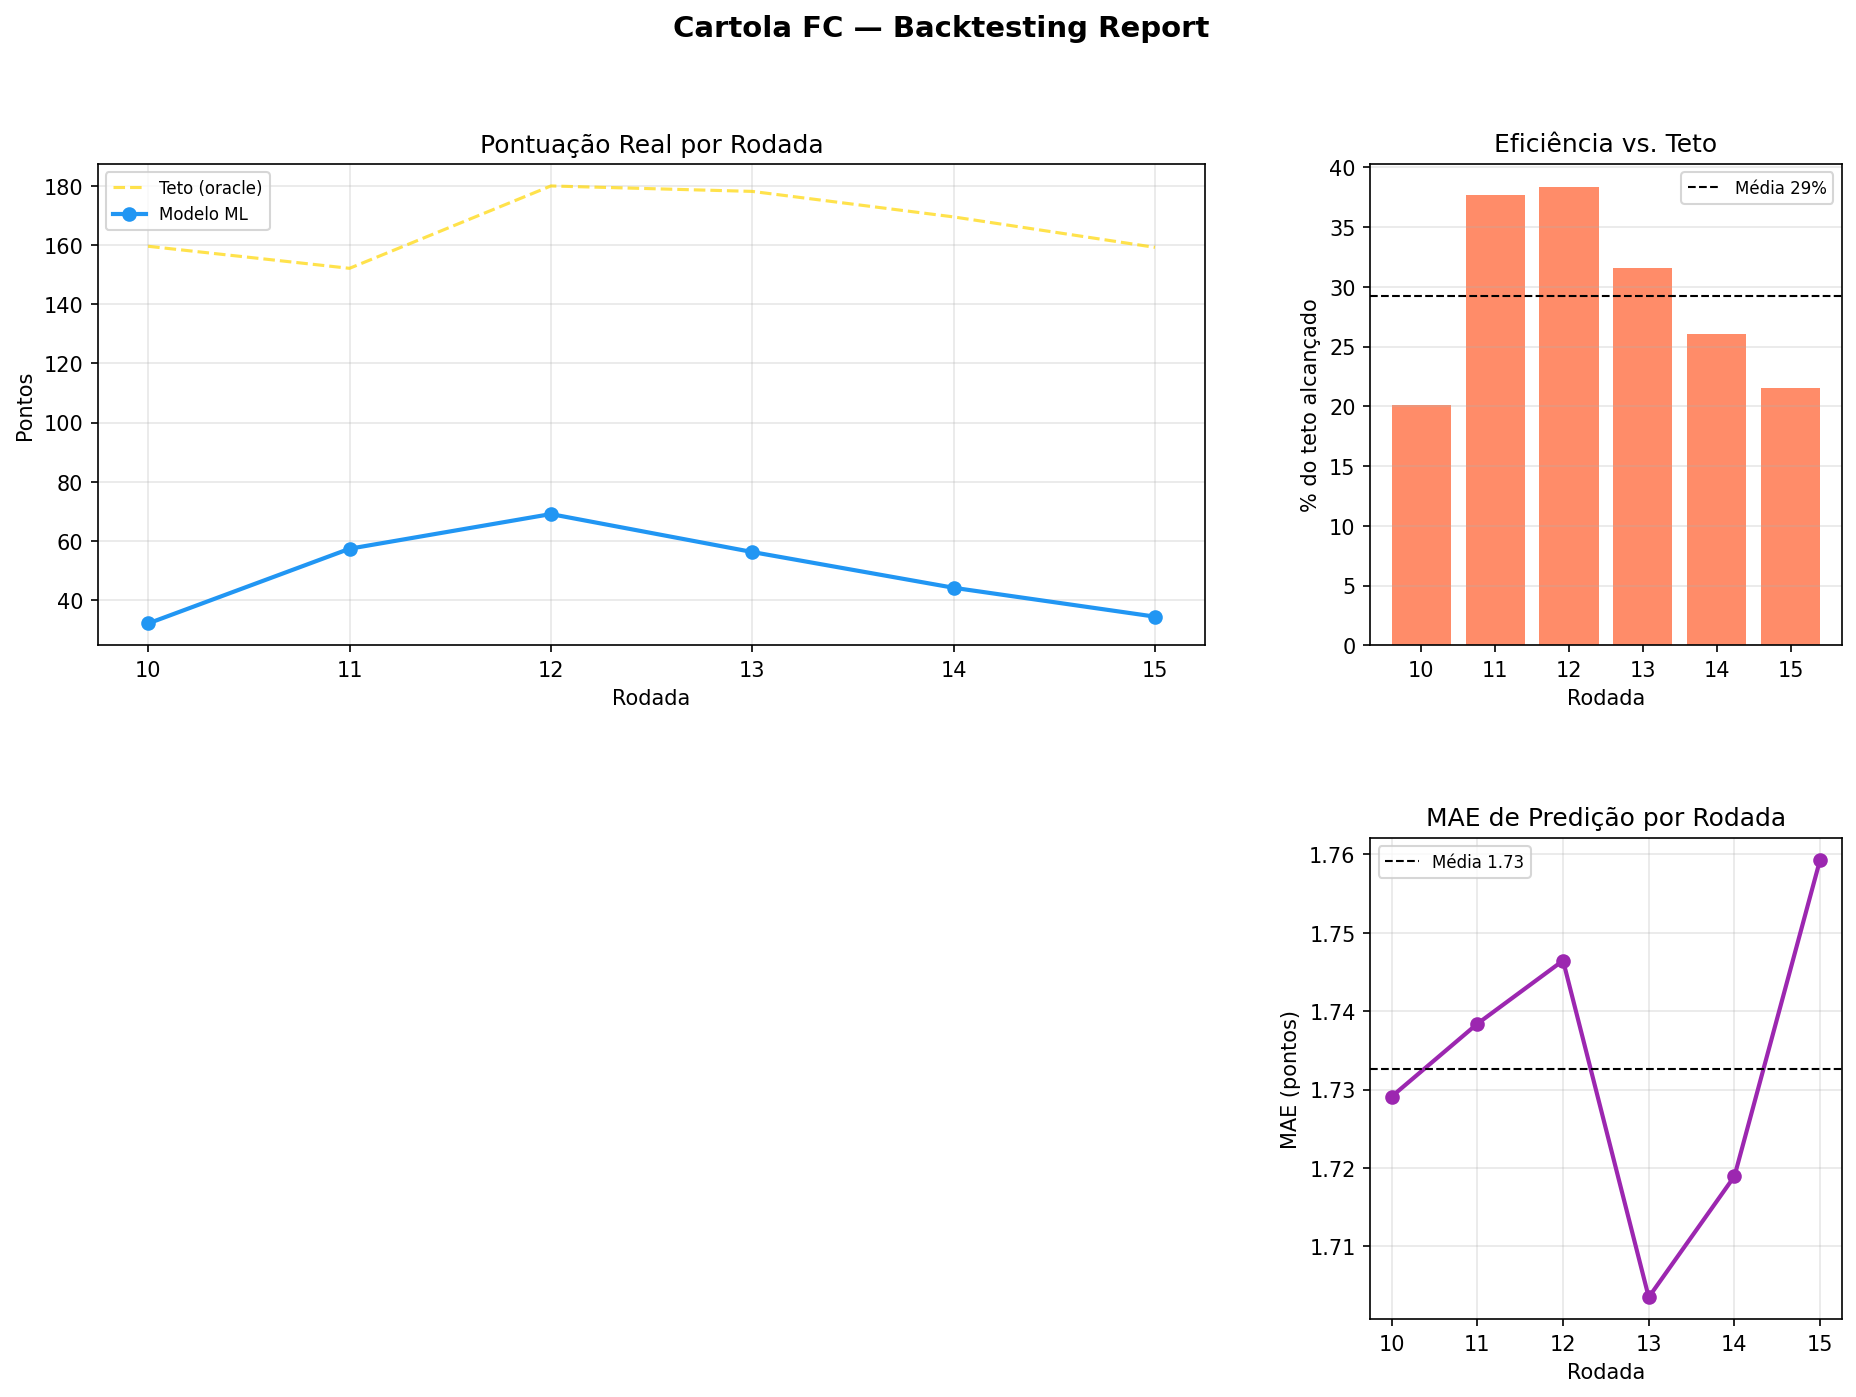
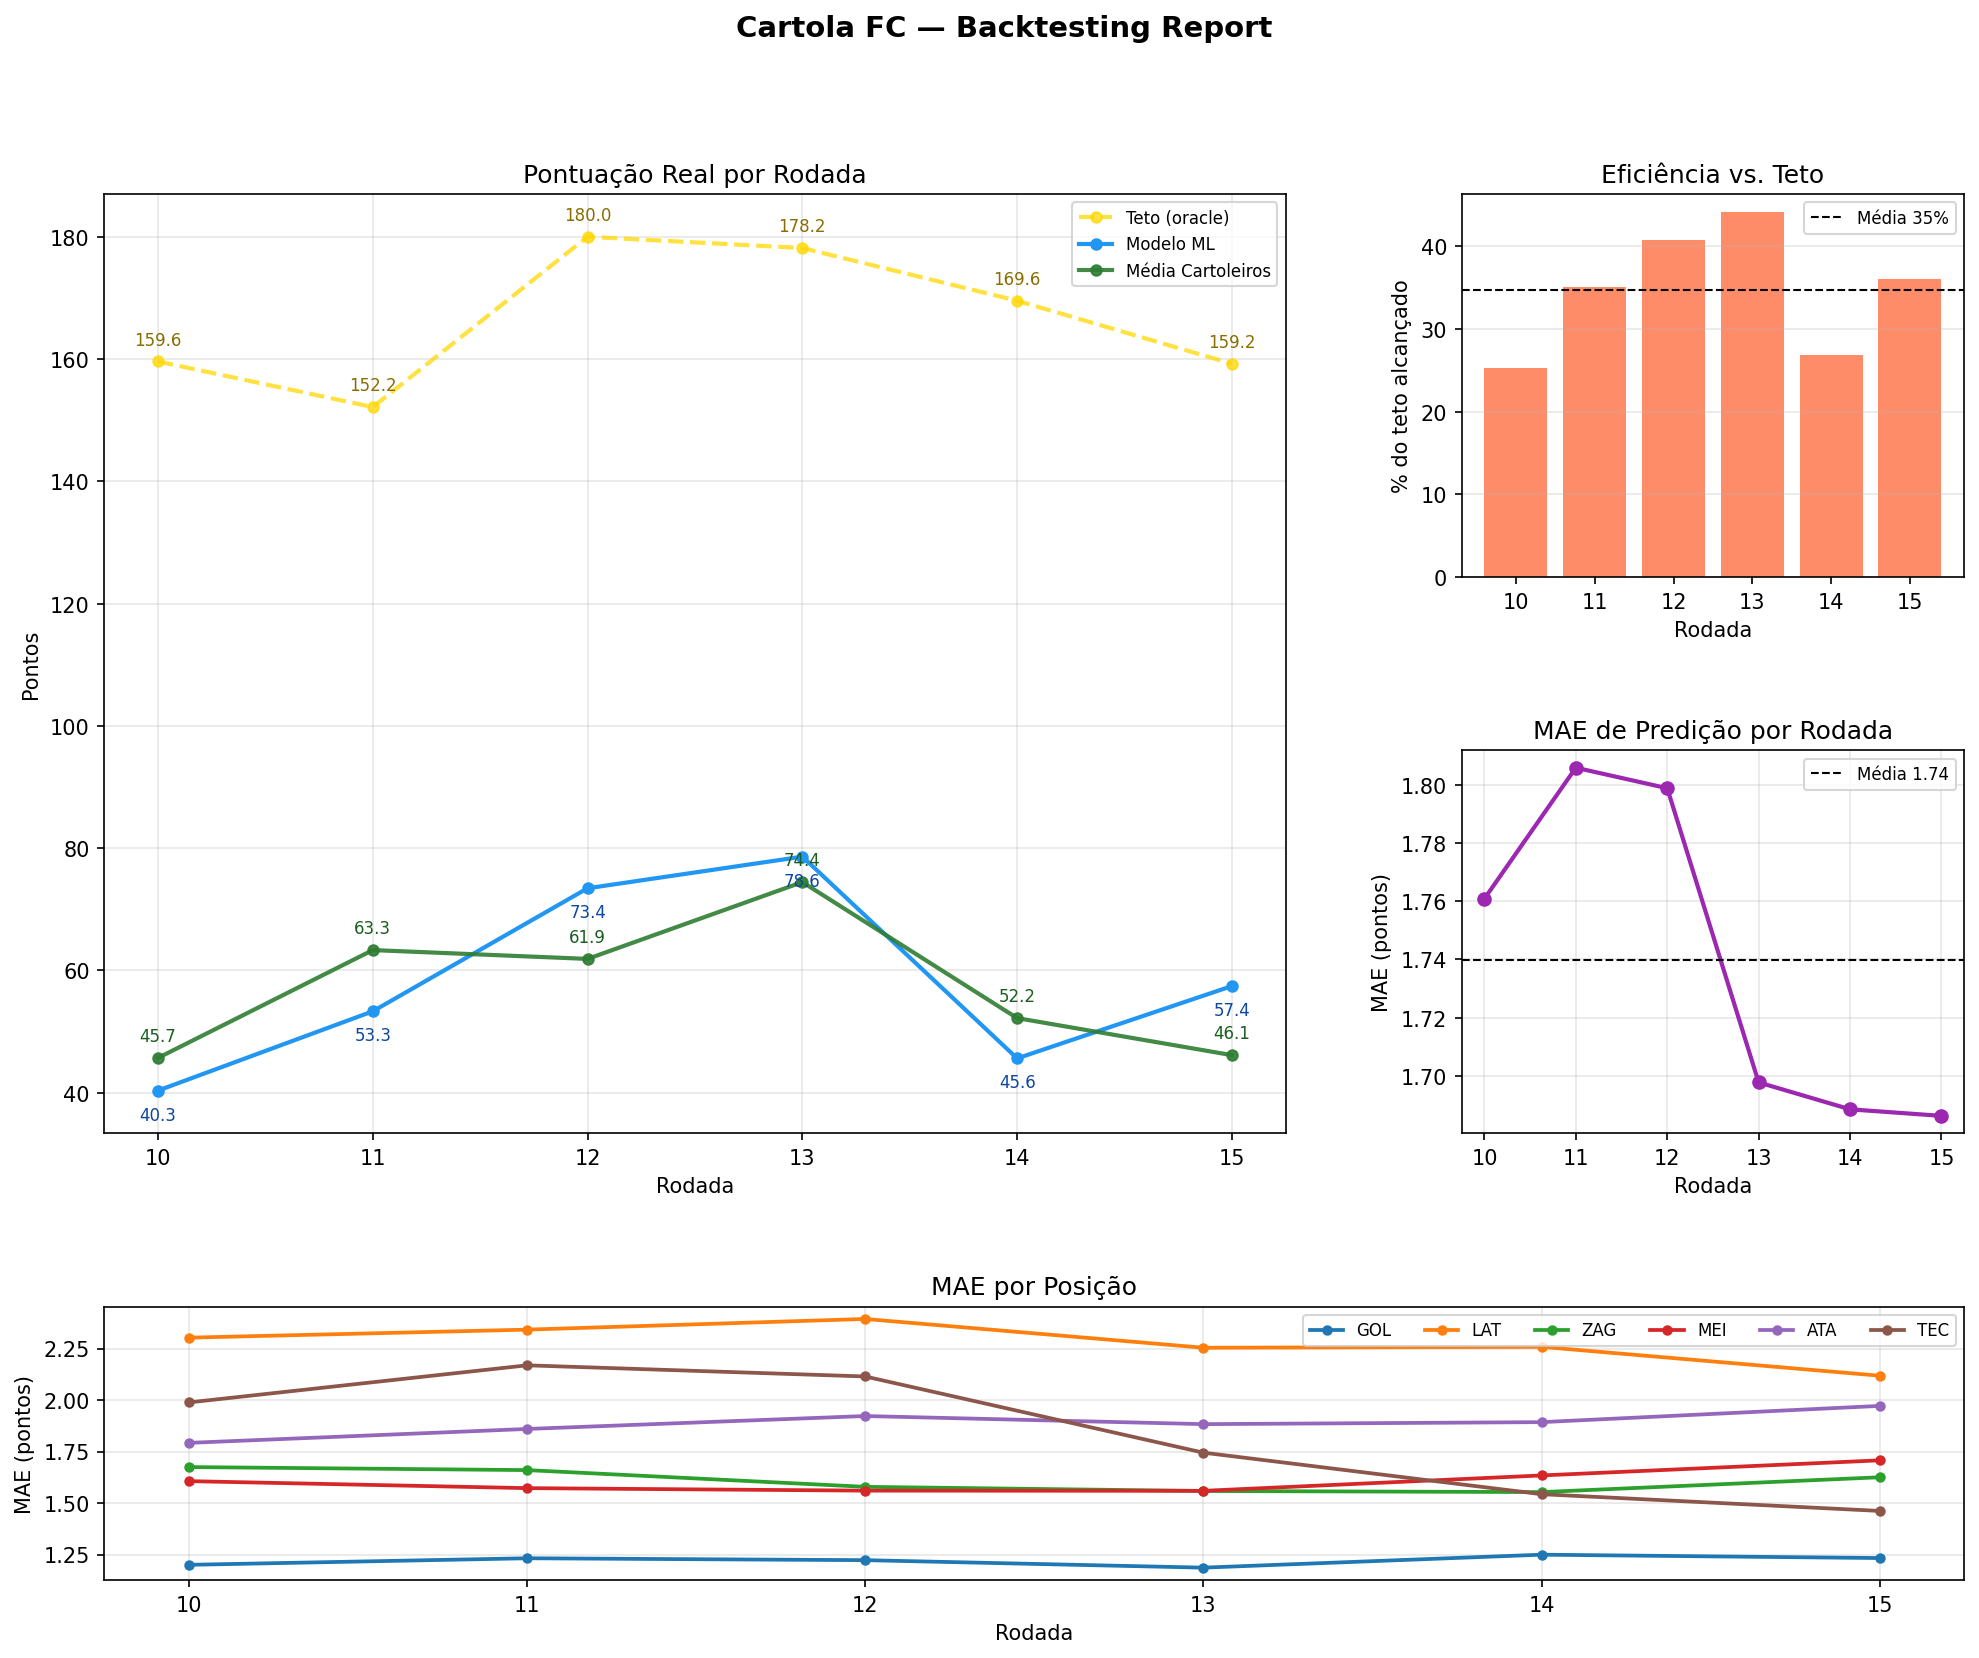
Backtest creates csv with selected players per round and improves chart

diff --git a/cartola_backtest.py b/cartola_backtest.py
@@ -66,6 +66,64 @@ class ResultadoRodada:
     eficiencia: float                    # pts_modelo / pts_teto  (0–1)
     budget_usado: float                  # cartoletas gastas
     time_escalado: pd.DataFrame = field(repr=False)
+    mae_por_posicao: dict[str, float] = field(default_factory=dict)
+
+
+def build_clubes_lookup(df_players_per_round: pd.DataFrame) -> dict:
+    """Return clube_id -> best available club name, preferring full names."""
+    if not {"clube_id", "clube_nome"}.issubset(df_players_per_round.columns):
+        return {}
+
+    clubes_df = df_players_per_round.dropna(subset=["clube_id", "clube_nome"])
+    clubes_lookup = {}
+
+    for clube_id, clube_rows in clubes_df.groupby("clube_id"):
+        nomes = [
+            str(nome).strip()
+            for nome in clube_rows["clube_nome"].dropna().unique()
+            if str(nome).strip()
+        ]
+        if not nomes:
+            continue
+
+        clubes_lookup[clube_id] = max(nomes, key=len)
+
+    return clubes_lookup
+
+
+def load_medias_cartoleiros() -> pd.DataFrame:
+    """Load Cartola users' average score by round, when available."""
+    medias_file = DATA_DIR / "medias_cartoleiros.parquet"
+    columns = ["rodada", "media_cartoleiros"]
+    if not medias_file.exists():
+        log.warning(f"Arquivo nao encontrado: {medias_file}")
+        return pd.DataFrame(columns=columns)
+
+    try:
+        medias_df = pd.read_parquet(medias_file)
+    except Exception as exc:
+        log.warning(f"Falha ao carregar {medias_file}: {exc}")
+        return pd.DataFrame(columns=columns)
+
+    if not set(columns).issubset(medias_df.columns):
+        log.warning(f"{medias_file} nao contem as colunas esperadas: {columns}")
+        return pd.DataFrame(columns=columns)
+
+    return (
+        medias_df[columns]
+        .dropna(subset=["rodada", "media_cartoleiros"])
+        .drop_duplicates("rodada")
+        .sort_values("rodada")
+    )
+
+
+def mae_por_posicao_from_models(models_by_position: dict) -> dict[str, float]:
+    """Return validation MAE by position name from trained position models."""
+    mae_por_posicao = {}
+    for posicao_id, model_info in models_by_position.items():
+        posicao = POSICAO_NOME.get(int(posicao_id), str(posicao_id))
+        mae_por_posicao[posicao] = float(model_info["mae"])
+    return mae_por_posicao
 
 
 # ──────────────────────────────────────────────
@@ -285,13 +343,9 @@ def rodar_backtest(
 
     resultados = []
 
-    # Lookup: clube_id -> nome (do histórico, que já mapeia ambos)
-    clubes_lookup = (
-        df_players_per_round.dropna(subset=["clube_id", "clube_nome"])
-        .drop_duplicates("clube_id")
-        .set_index("clube_id")["clube_nome"]
-        .to_dict()
-    )
+    # Lookup: clube_id -> nome (prefere nome completo quando o historico tambem
+    # tem abreviacoes como FLA/PAL/VAS para temporadas mais recentes).
+    clubes_lookup = build_clubes_lookup(df_players_per_round)
 
     # Lookup: (rodada, clube_id) -> clube_adversario_id. Coluna pode não existir em
     # parquets antigos — quando ausente, o adversário cai para "?" no log.
@@ -347,6 +401,7 @@ def rodar_backtest(
             continue
         feat_cols = feature_cols_from_models(models_by_pos)
         mae = mean_mae_from_models(models_by_pos)
+        mae_por_posicao = mae_por_posicao_from_models(models_by_pos)
 
         # Simular mercado: snapshot dos jogadores na rodada alvo
         # (usamos os dados daquela rodada como proxy de mercado)
@@ -386,6 +441,12 @@ def rodar_backtest(
 
         # Anotar posição (string), adversário e pontos reais no lineup para o log/CSV
         time_modelo["posicao"] = time_modelo["posicao_id"].map(POSICAO_NOME)
+        time_modelo["clube"] = (
+            time_modelo["clube_id"]
+            .map(clubes_lookup)
+            .fillna(time_modelo.get("clube_nome", ""))
+            .fillna("?")
+        )
         time_modelo["adversario"] = (
             time_modelo["clube_id"]
             .map(
@@ -401,7 +462,7 @@ def rodar_backtest(
         log.info(f"Time escalado R{rodada_alvo}:")
         for _, p in time_modelo.iterrows():
             apelido = (p["apelido"] or "")[:20]
-            clube = (p.get("clube_nome") or "")[:16]
+            clube = (p.get("clube") or "")[:16]
             adv = (p["adversario"] or "")[:16]
             log.info(
                 f"  {p['posicao']:<3} {apelido:<20} {clube:<16} vs {adv:<16} "
@@ -422,6 +483,7 @@ def rodar_backtest(
             eficiencia=eficiencia,
             budget_usado=time_modelo["preco"].sum(),
             time_escalado=time_modelo,
+            mae_por_posicao=mae_por_posicao,
         )
         resultados.append(resultado)
         log.info(
@@ -448,6 +510,16 @@ def gerar_relatorio(resultados: list[ResultadoRodada], output_dir: Path = RESULT
         "budget_usado":      r.budget_usado
     } for r in resultados])
 
+    mae_posicao_df = pd.DataFrame([
+        {
+            "rodada": r.rodada,
+            "posicao": posicao,
+            "mae_predicao": mae_posicao,
+        }
+        for r in resultados
+        for posicao, mae_posicao in r.mae_por_posicao.items()
+    ])
+
     # ── Sumário no terminal ──
     print("\n" + "="*70)
     print(f"{'BACKTEST SUMMARY':^70}")
@@ -464,17 +536,87 @@ def gerar_relatorio(resultados: list[ResultadoRodada], output_dir: Path = RESULT
     print("="*70)
 
     # ── Gráficos ──
-    fig = plt.figure(figsize=(15, 10))
+    fig = plt.figure(figsize=(16, 12))
     fig.suptitle("Cartola FC — Backtesting Report", fontsize=14, fontweight="bold")
-    gs = gridspec.GridSpec(2, 3, figure=fig, hspace=0.4, wspace=0.35)
+    gs = gridspec.GridSpec(
+        3,
+        3,
+        figure=fig,
+        height_ratios=[1.4, 1.4, 1.0],
+        hspace=0.5,
+        wspace=0.35,
+    )
 
     rodadas = df["rodada"].values
+    medias_cartoleiros = load_medias_cartoleiros()
+    medias_cartoleiros_plot = df[["rodada"]].merge(
+        medias_cartoleiros,
+        on="rodada",
+        how="left",
+    ).dropna(subset=["media_cartoleiros"])
 
     # 1. Pontuação por rodada
-    ax1 = fig.add_subplot(gs[0, :2])
-    ax1.plot(rodadas, df["pts_teto"],     "--", color="gold",   label="Teto (oracle)", alpha=0.7)
-    ax1.plot(rodadas, df["pts_modelo"],   "-o", color="#2196F3", label="Modelo ML",  linewidth=2)
+    ax1 = fig.add_subplot(gs[:2, :2])
+    ax1.plot(
+        rodadas,
+        df["pts_teto"],
+        "--o",
+        color="gold",
+        label="Teto (oracle)",
+        alpha=0.75,
+        linewidth=2,
+        markersize=5,
+    )
+    ax1.plot(
+        rodadas,
+        df["pts_modelo"],
+        "-o",
+        color="#2196F3",
+        label="Modelo ML",
+        linewidth=2,
+        markersize=5,
+    )
+    if not medias_cartoleiros_plot.empty:
+        ax1.plot(
+            medias_cartoleiros_plot["rodada"],
+            medias_cartoleiros_plot["media_cartoleiros"],
+            "-o",
+            color="#2E7D32",
+            label="Média Cartoleiros",
+            linewidth=2,
+            markersize=5,
+            alpha=0.9,
+        )
+    for rodada, pts_teto, pts_modelo in zip(rodadas, df["pts_teto"], df["pts_modelo"]):
+        ax1.annotate(
+            f"{pts_teto:.1f}",
+            (rodada, pts_teto),
+            textcoords="offset points",
+            xytext=(0, 8),
+            ha="center",
+            fontsize=8,
+            color="#8A6D00",
+        )
+        ax1.annotate(
+            f"{pts_modelo:.1f}",
+            (rodada, pts_modelo),
+            textcoords="offset points",
+            xytext=(0, -14),
+            ha="center",
+            fontsize=8,
+            color="#0D47A1",
+        )
     ax1.set_title("Pontuação Real por Rodada")
+    for _, row in medias_cartoleiros_plot.iterrows():
+        ax1.annotate(
+            f"{row['media_cartoleiros']:.1f}",
+            (row["rodada"], row["media_cartoleiros"]),
+            textcoords="offset points",
+            xytext=(0, 8),
+            ha="center",
+            fontsize=8,
+            color="#1B5E20",
+        )
     ax1.set_xlabel("Rodada")
     ax1.set_ylabel("Pontos")
     ax1.legend(fontsize=8)
@@ -503,12 +645,87 @@ def gerar_relatorio(resultados: list[ResultadoRodada], output_dir: Path = RESULT
     ax4.legend(fontsize=8)
     ax4.grid(True, alpha=0.3)
 
+    # 5. MAE por posicao
+    ax5 = fig.add_subplot(gs[2, :])
+    if not mae_posicao_df.empty:
+        posicao_order = list(POSICAO_NOME.values())
+        for posicao in posicao_order:
+            position_mae = mae_posicao_df[mae_posicao_df["posicao"] == posicao]
+            if position_mae.empty:
+                continue
+            ax5.plot(
+                position_mae["rodada"],
+                position_mae["mae_predicao"],
+                "-o",
+                label=posicao,
+                linewidth=1.8,
+                markersize=4,
+            )
+        ax5.set_title("MAE por Posição")
+        ax5.set_xlabel("Rodada")
+        ax5.set_ylabel("MAE (pontos)")
+        ax5.legend(fontsize=8, ncol=min(6, max(1, mae_posicao_df["posicao"].nunique())))
+        ax5.grid(True, alpha=0.3)
+    else:
+        ax5.set_axis_off()
+
     plt.savefig(output_dir / "backtest_report.png", dpi=150, bbox_inches="tight")
     log.info(f"Gráfico salvo em {output_dir / 'backtest_report.png'}")
 
     # ── Salvar CSV ──
     df.to_csv(output_dir / "backtest_resultados.csv", index=False)
     log.info(f"Resultados salvos em {output_dir / 'backtest_resultados.csv'}")
+
+    mae_posicao_path = output_dir / "backtest_mae_por_posicao.csv"
+    mae_posicao_df.to_csv(mae_posicao_path, index=False)
+    log.info(f"MAE por posição salvo em {mae_posicao_path}")
+
+    selected_players_rows = []
+    for resultado in resultados:
+        time_escalado = resultado.time_escalado.copy()
+        if time_escalado.empty:
+            continue
+
+        time_escalado["rodada"] = resultado.rodada
+        if "clube" not in time_escalado.columns:
+            time_escalado["clube"] = time_escalado.get("clube_nome", "")
+        time_escalado["clube adversario"] = time_escalado.get("adversario", "")
+        time_escalado["pontos"] = time_escalado.get("pontos_real", 0.0)
+
+        selected_players_rows.append(time_escalado)
+
+    selected_players_columns = [
+        "rodada",
+        "atleta_id",
+        "apelido",
+        "posicao",
+        "clube",
+        "clube adversario",
+        "mando",
+        "pontos",
+        "pontos_previstos",
+    ]
+    if selected_players_rows:
+        selected_players_df = pd.concat(selected_players_rows, ignore_index=True)
+        selected_players_df = selected_players_df.sort_values(
+            ["rodada", "posicao_id"],
+            ascending=[True, True],
+        )
+        for column in selected_players_columns:
+            if column not in selected_players_df.columns:
+                selected_players_df[column] = ""
+        selected_players_df = selected_players_df[selected_players_columns]
+    else:
+        selected_players_df = pd.DataFrame(columns=selected_players_columns)
+
+    selected_players_df["mando"] = selected_players_df["mando"].map({
+        1: "CASA",
+        -1: "FORA",
+    })
+
+    selected_players_path = output_dir / "backtest_time_escalado.csv"
+    selected_players_df.to_csv(selected_players_path, index=False)
+    log.info(f"Time escalado salvo em {selected_players_path}")
 
     return df
 

diff --git a/cartola_team_builder.py b/cartola_team_builder.py
@@ -24,7 +24,7 @@ def train_model(df: pd.DataFrame, round_limit: int, season: int | None = None):
     Returns (model, feature_cols, mae).
 
     When `season` is provided and the dataset has a `temporada` column, all
-    previous seasons are used for training. The validation fold is the five
+    previous seasons are used for training. The validation fold is the 3
     rounds immediately before `round_limit` in the target season.
     """
     feat_cols = [c for c in FEATURE_COLS if c in df.columns]

diff --git a/feature_engineering.py b/feature_engineering.py
@@ -45,7 +45,7 @@ def build_features(
 
     features_df["pts_ultima_rodada"] = features_df.groupby("atleta_id")["pontos"].shift(1)
 
-    for col in ["scout_G", "scout_A", "scout_SG", "scout_GS", "scout_DE"]:
+    for col in [feat for feat in FEATURE_COLS if feat.startswith('scout')]:
         if col in features_df.columns:
             features_df[f"{col}_5r"] = (
                 features_df.groupby("atleta_id")[col]
